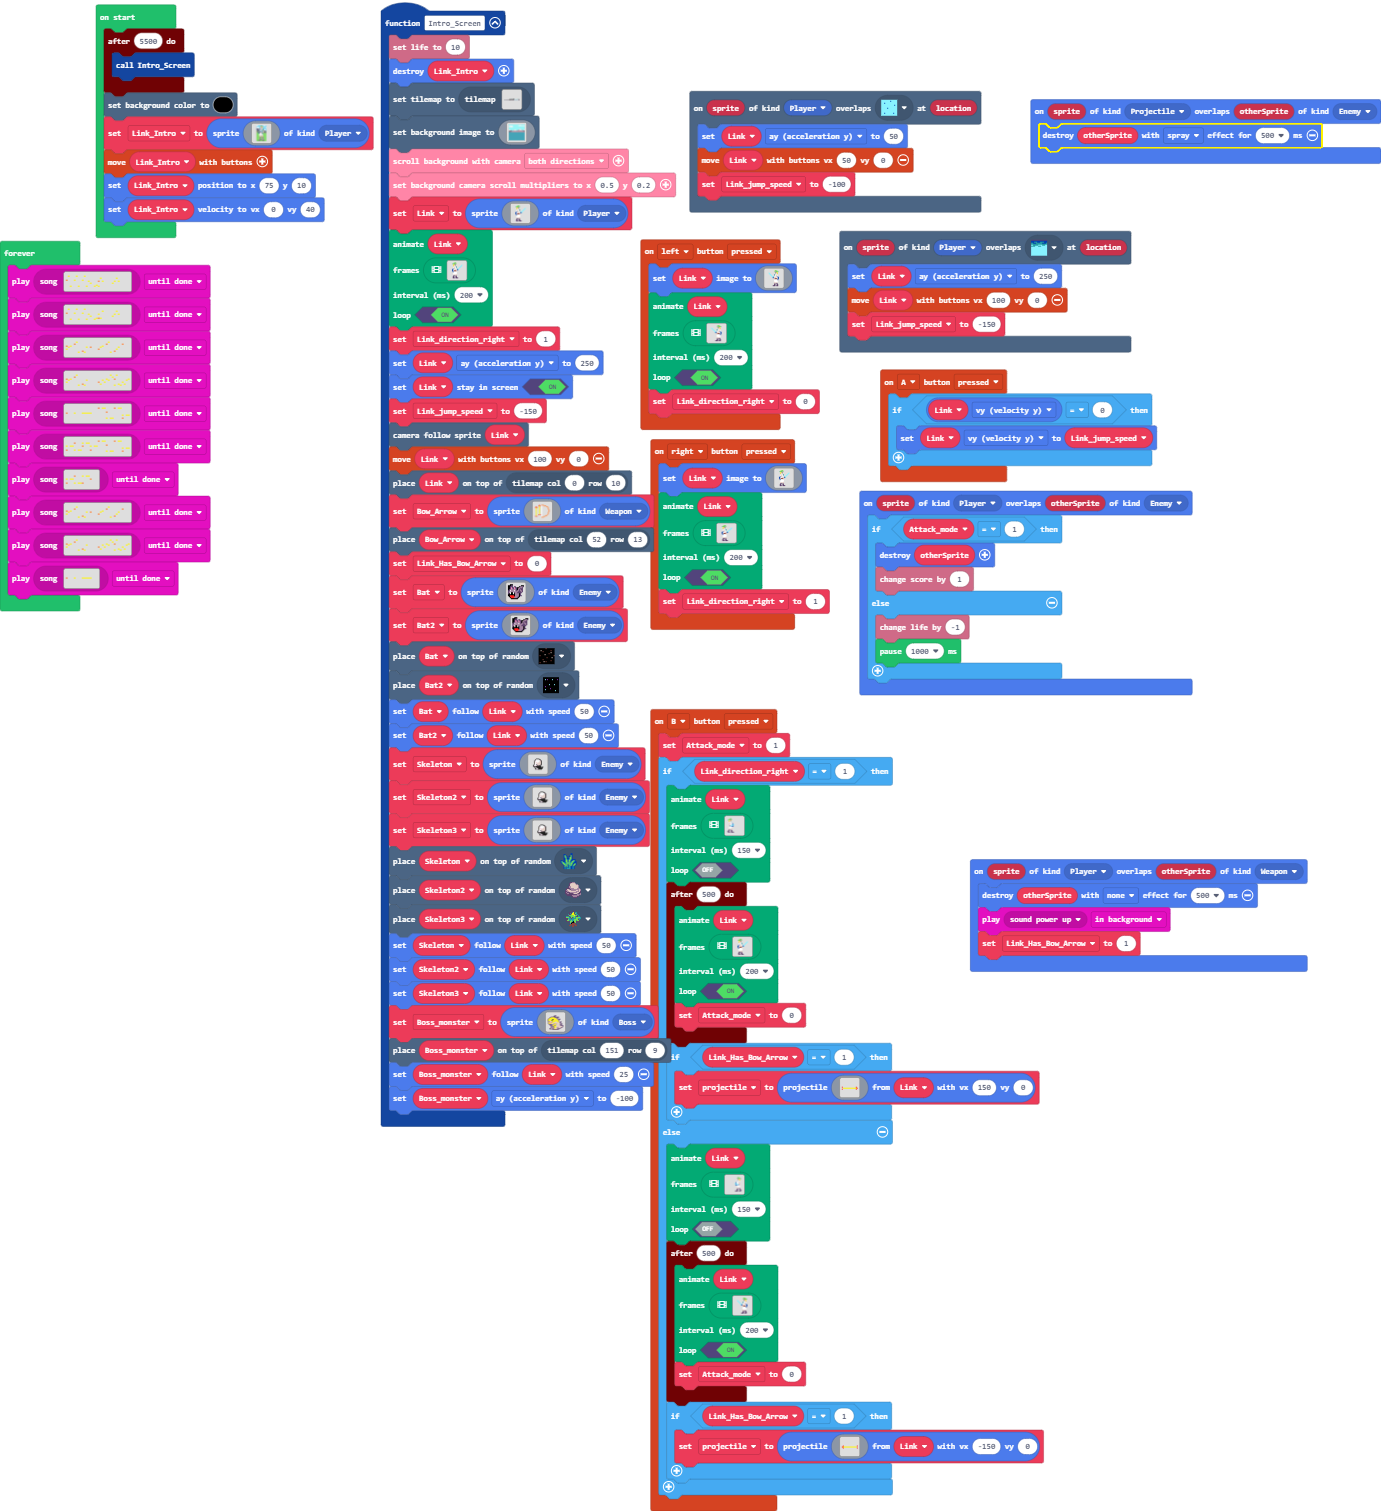
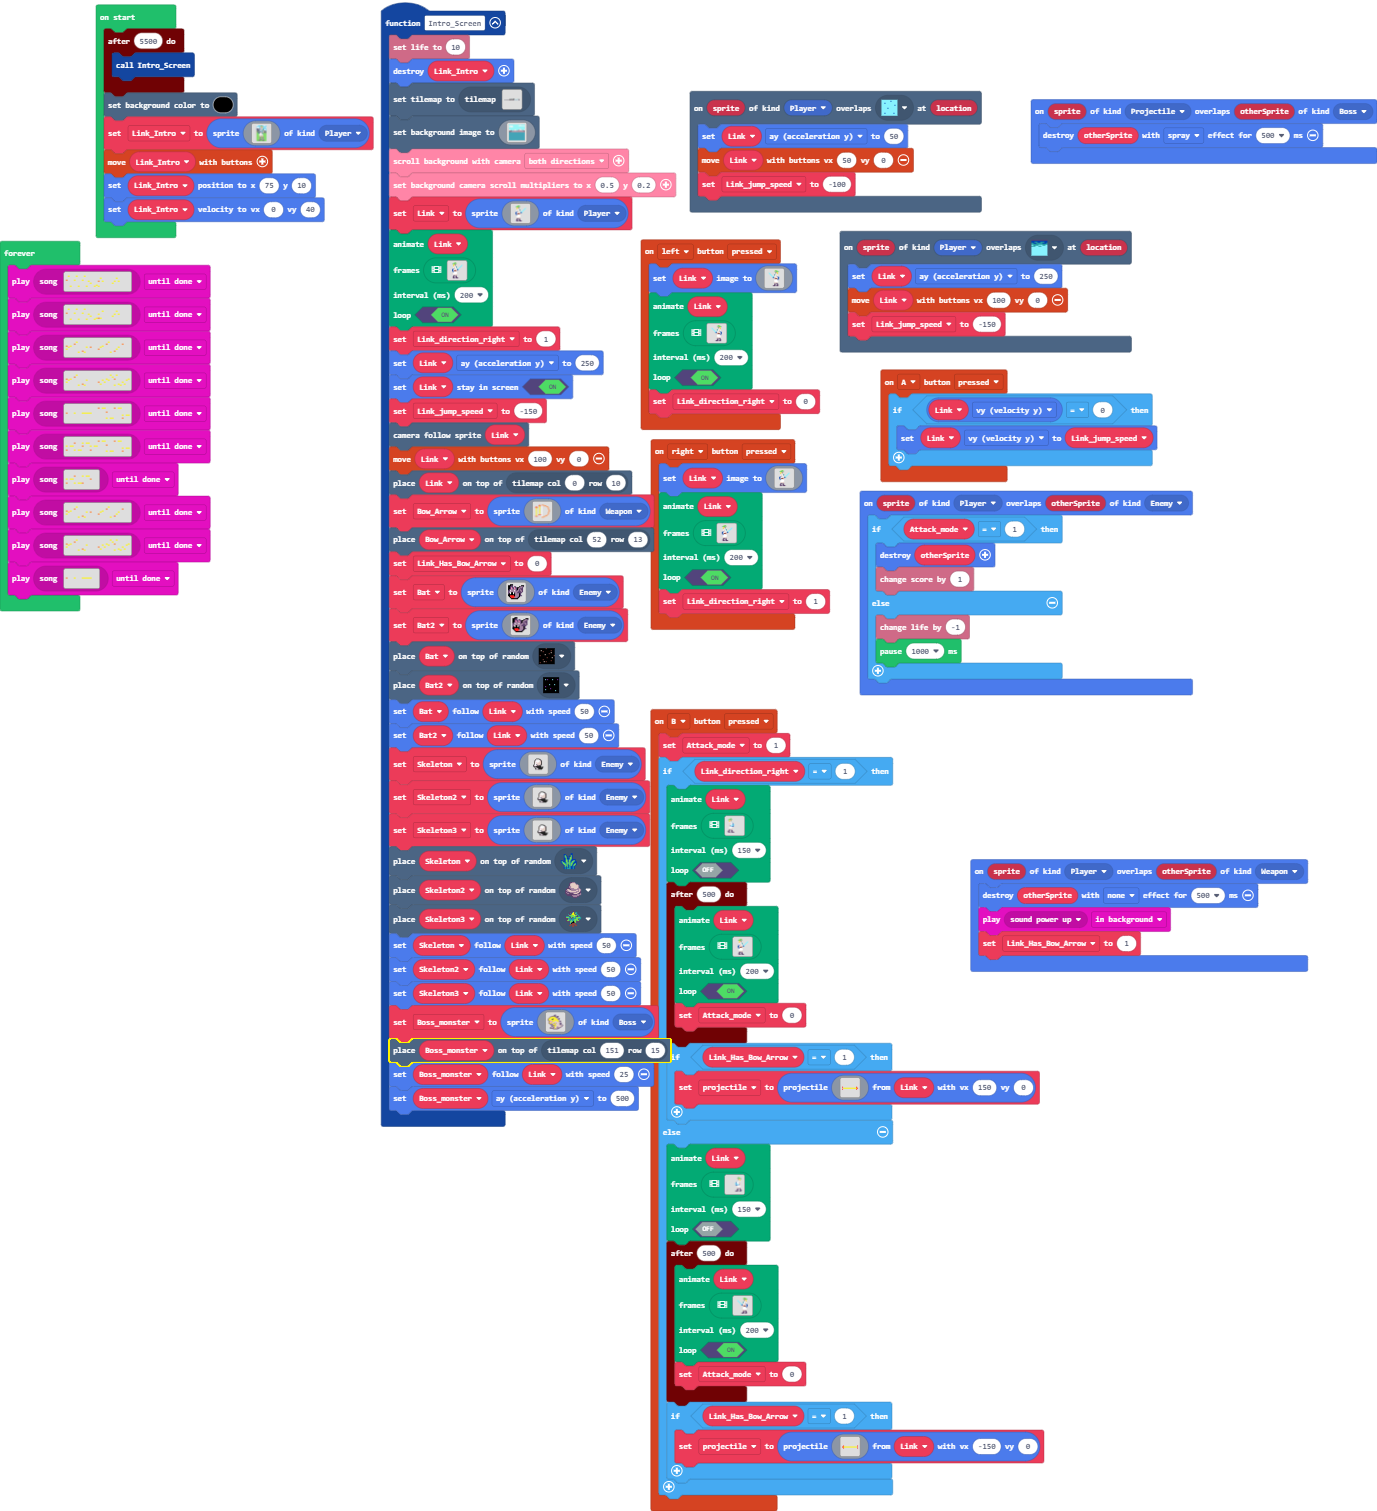
Update main.blocks, main.ts

diff --git a/main.ts b/main.ts
@@ -88,6 +88,9 @@ controller.A.onEvent(ControllerButtonEvent.Pressed, function () {
         Link.vy = Link_jump_speed
     }
 })
+sprites.onOverlap(SpriteKind.Projectile, SpriteKind.Boss, function (sprite, otherSprite) {
+    sprites.destroy(otherSprite, effects.spray, 500)
+})
 controller.left.onEvent(ControllerButtonEvent.Pressed, function () {
     Link.setImage(assets.image`Link_face_left`)
     animation.runImageAnimation(
@@ -458,34 +461,58 @@ function Intro_Screen () {
     Skeleton2.follow(Link, 50)
     Skeleton3.follow(Link, 50)
     Boss_monster = sprites.create(img`
-        ........................
-        ........................
-        ..........ccc...........
-        .........cccc...........
-        .....ccccccc..ccc.......
-        ...cc555555cccccc.......
-        ..c5555555555bcc........
-        .c555555555555b..cc.....
-        c555551ff555555bccc.....
-        c55d55ff55555555bc......
-        c5555555555555555b......
-        .cbb31bb5555dd555b.cc...
-        .c5333b555ddddd55dccc...
-        .c533b55ddddddddddb.....
-        .c5555dddbb55bdddddccc..
-        ..ccccbbbb555bdddddccc..
-        ...cdcbc5555bddddddcc...
-        ....ccbc55bc5ddddddbcccc
-        .....cbbcc5555dddddddddc
-        .....ccbbb555ddbddddddc.
-        .....cdcbc55ddbbbdddcc..
-        ...ccdddccddddbcbbcc....
-        ...ccccccd555ddccc......
-        ........cccccccc........
+        ................................................
+        ................................................
+        ....................ccccc.......................
+        ....................ccccc.......................
+        ..................ccccccc.......................
+        ..................ccccccc.......................
+        ...........ccccccccccccc...cccccc...............
+        ...........ccccccccccccc...cccccc...............
+        .......cccc55555555555ccccccccccc...............
+        .......cccc55555555555ccccccccccc...............
+        .....cc555555555555555555bbcccc.................
+        .....cc555555555555555555bbcccc.................
+        ...cc5555555555555555555555bb....ccc............
+        ...cc5555555555555555555555bb....ccc............
+        .cc55555555551ffff55555555555bbccccc............
+        .cc55555555551ffff55555555555bbccccc............
+        .cc5555dd5555fff555555555555555bbcc.............
+        .cc5555dd5555fff555555555555555bbcc.............
+        .cc555555555555555555555555555555bb.............
+        .cc555555555555555555555555555555bb.............
+        ...ccbbbb3311bbb55555555ddd555555bb.cccc........
+        ...ccbbbb3311bbb55555555ddd555555bb.cccc........
+        ...cc55333333b555555ddddddddd5555ddccccc........
+        ...cc55333333b555555ddddddddd5555ddccccc........
+        ...cc553333bb555dddddddddddddddddddb............
+        ...cc553333bb555dddddddddddddddddddb............
+        ...cc55555555dddddbbbb555bbdddddddddcccccc......
+        ...cc55555555dddddbbbb555bbdddddddddcccccc......
+        ...cc55555555dddddbbbb555bbdddddddddcccccc......
+        .....ccccccccbbbbbbb55555bbdddddddddcccccc......
+        .......ccddccbcc55555555bdddddddddddcccc........
+        .......ccddccbcc55555555bdddddddddddcccc........
+        .........ccccbcc5555bbcc5dddddddddddbbcccccccc..
+        .........ccccbcc5555bbcc5dddddddddddbbcccccccc..
+        ...........ccbbbcccc5555555dddddddddddddddddcc..
+        ...........ccbbbcccc5555555dddddddddddddddddcc..
+        ...........cccbbbbbb55555ddddbbdddddddddddcc....
+        ...........cccbbbbbb55555ddddbbdddddddddddcc....
+        ...........ccdccbbcc5555dddbbbbbbdddddcccc......
+        ...........ccdccbbcc5555dddbbbbbbdddddcccc......
+        .......ccccdddddccccdddddddbbccbbbbccc..........
+        .......ccccdddddccccdddddddbbccbbbbccc..........
+        .......cccccccccccdd55555ddddcccccc.............
+        .......cccccccccccdd55555ddddcccccc.............
+        ................ccccccccccccccc.................
+        ................ccccccccccccccc.................
+        ................................................
+        ................................................
         `, SpriteKind.Boss)
-    tiles.placeOnTile(Boss_monster, tiles.getTileLocation(151, 9))
+    tiles.placeOnTile(Boss_monster, tiles.getTileLocation(151, 15))
     Boss_monster.follow(Link, 25)
-    Boss_monster.ay = -100
+    Boss_monster.ay = 500
 }
 controller.right.onEvent(ControllerButtonEvent.Pressed, function () {
     Link.setImage(img`
@@ -539,9 +566,6 @@ sprites.onOverlap(SpriteKind.Player, SpriteKind.Weapon, function (sprite, otherS
     sprites.destroy(otherSprite, effects.none, 500)
     music.play(music.melodyPlayable(music.powerUp), music.PlaybackMode.InBackground)
     Link_Has_Bow_Arrow = 1
-})
-sprites.onOverlap(SpriteKind.Projectile, SpriteKind.Enemy, function (sprite, otherSprite) {
-    sprites.destroy(otherSprite, effects.spray, 500)
 })
 sprites.onOverlap(SpriteKind.Player, SpriteKind.Enemy, function (sprite, otherSprite) {
     if (Attack_mode == 1) {
